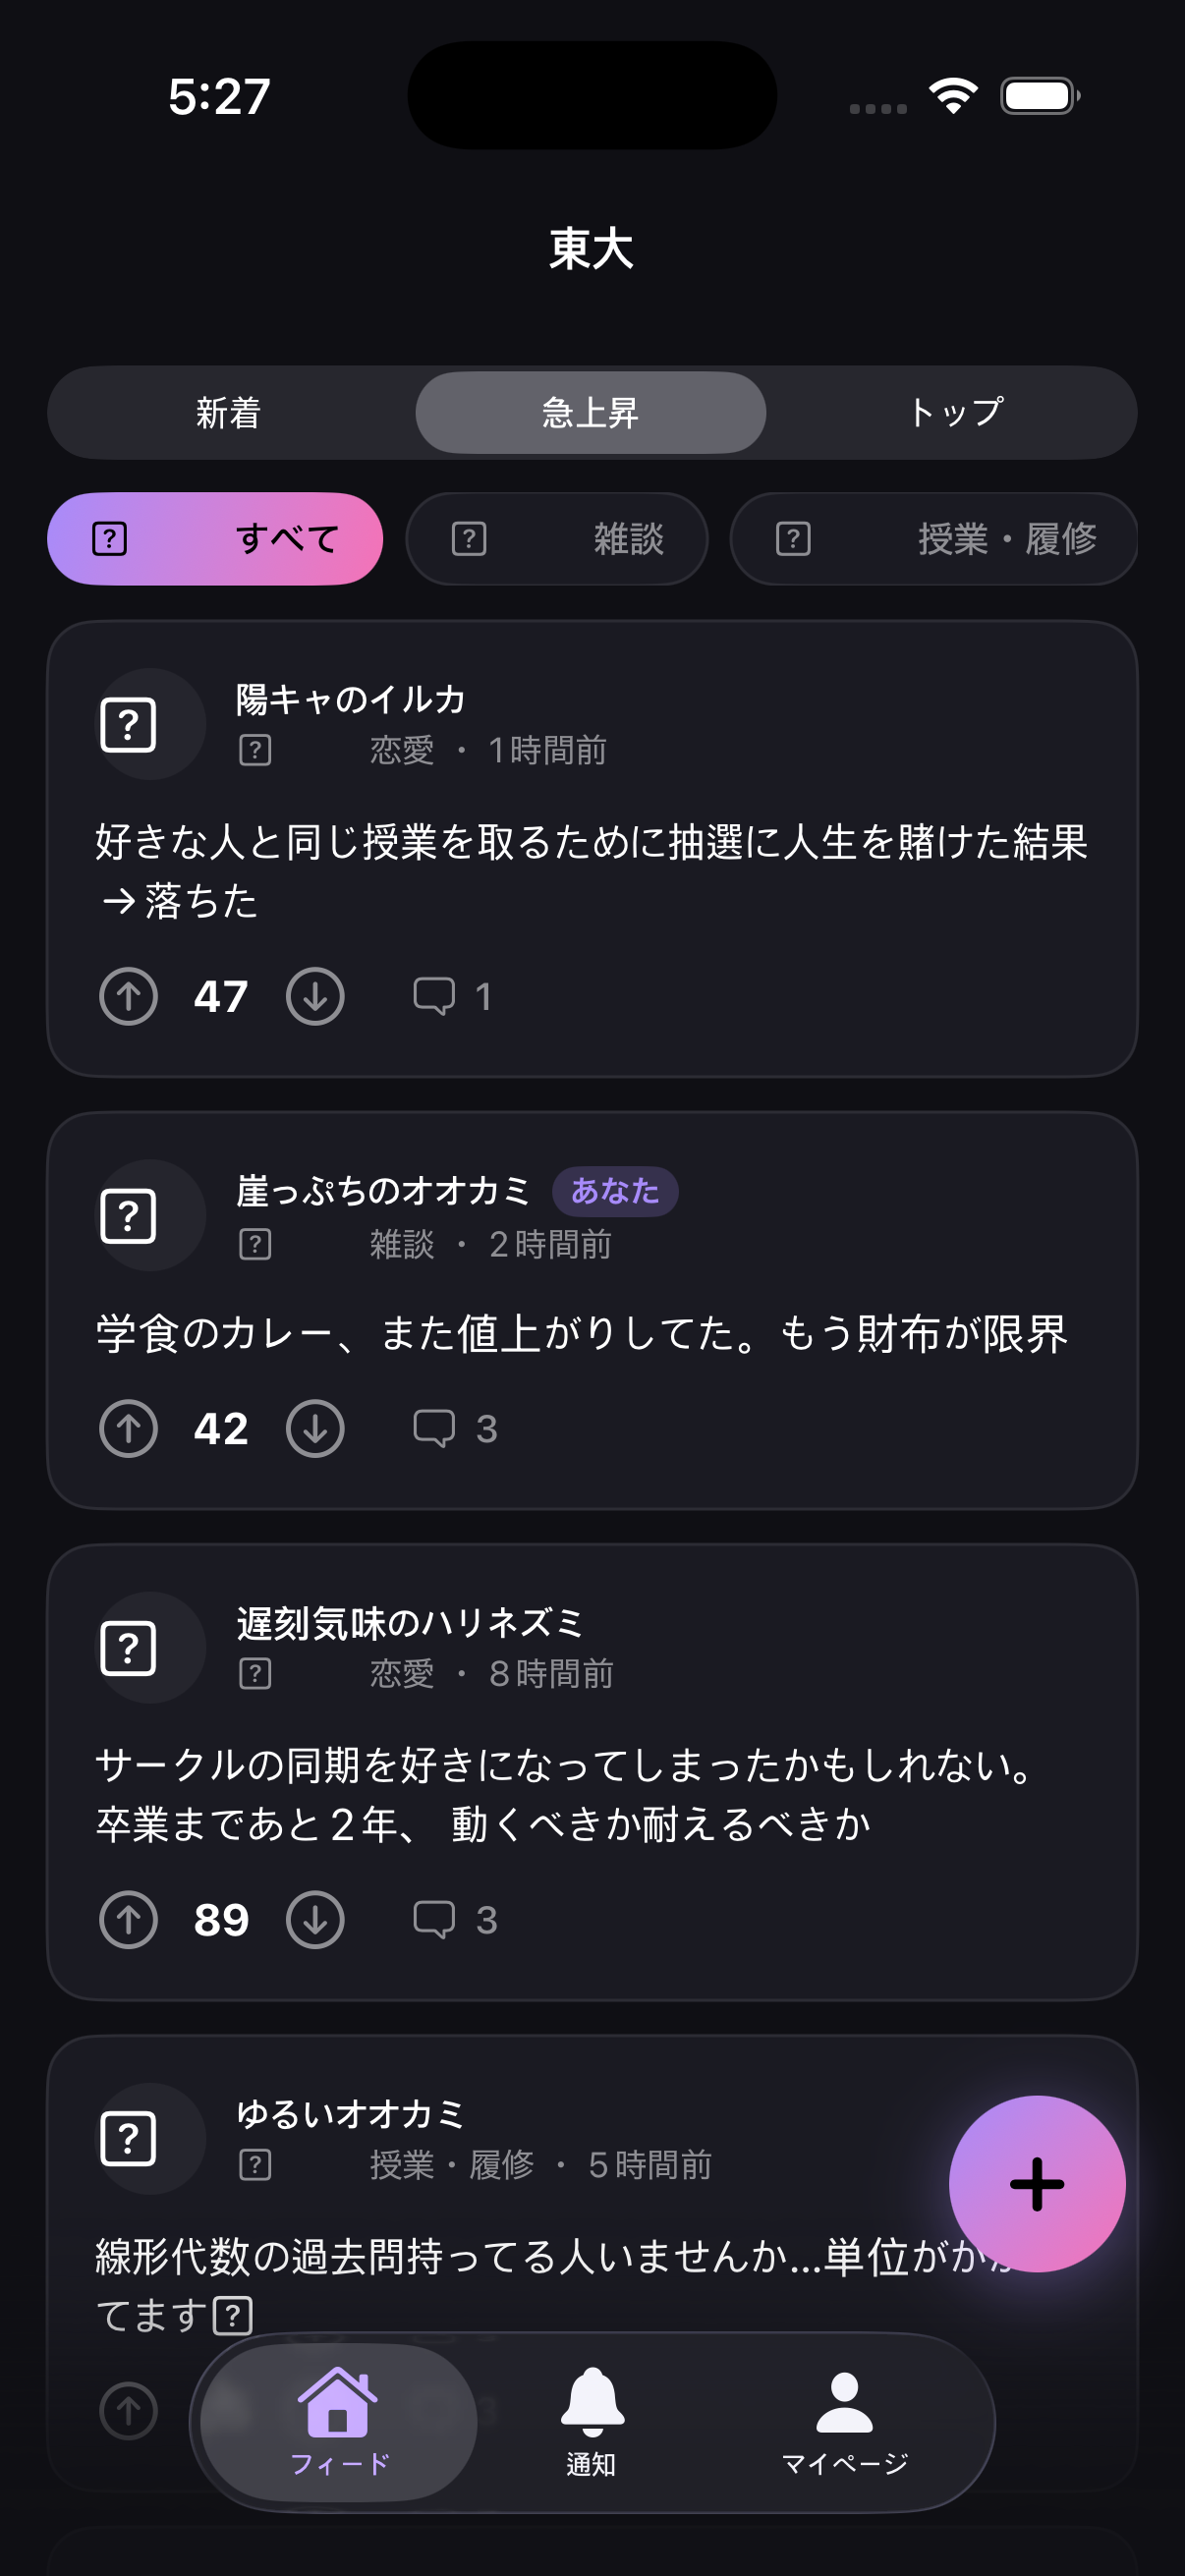
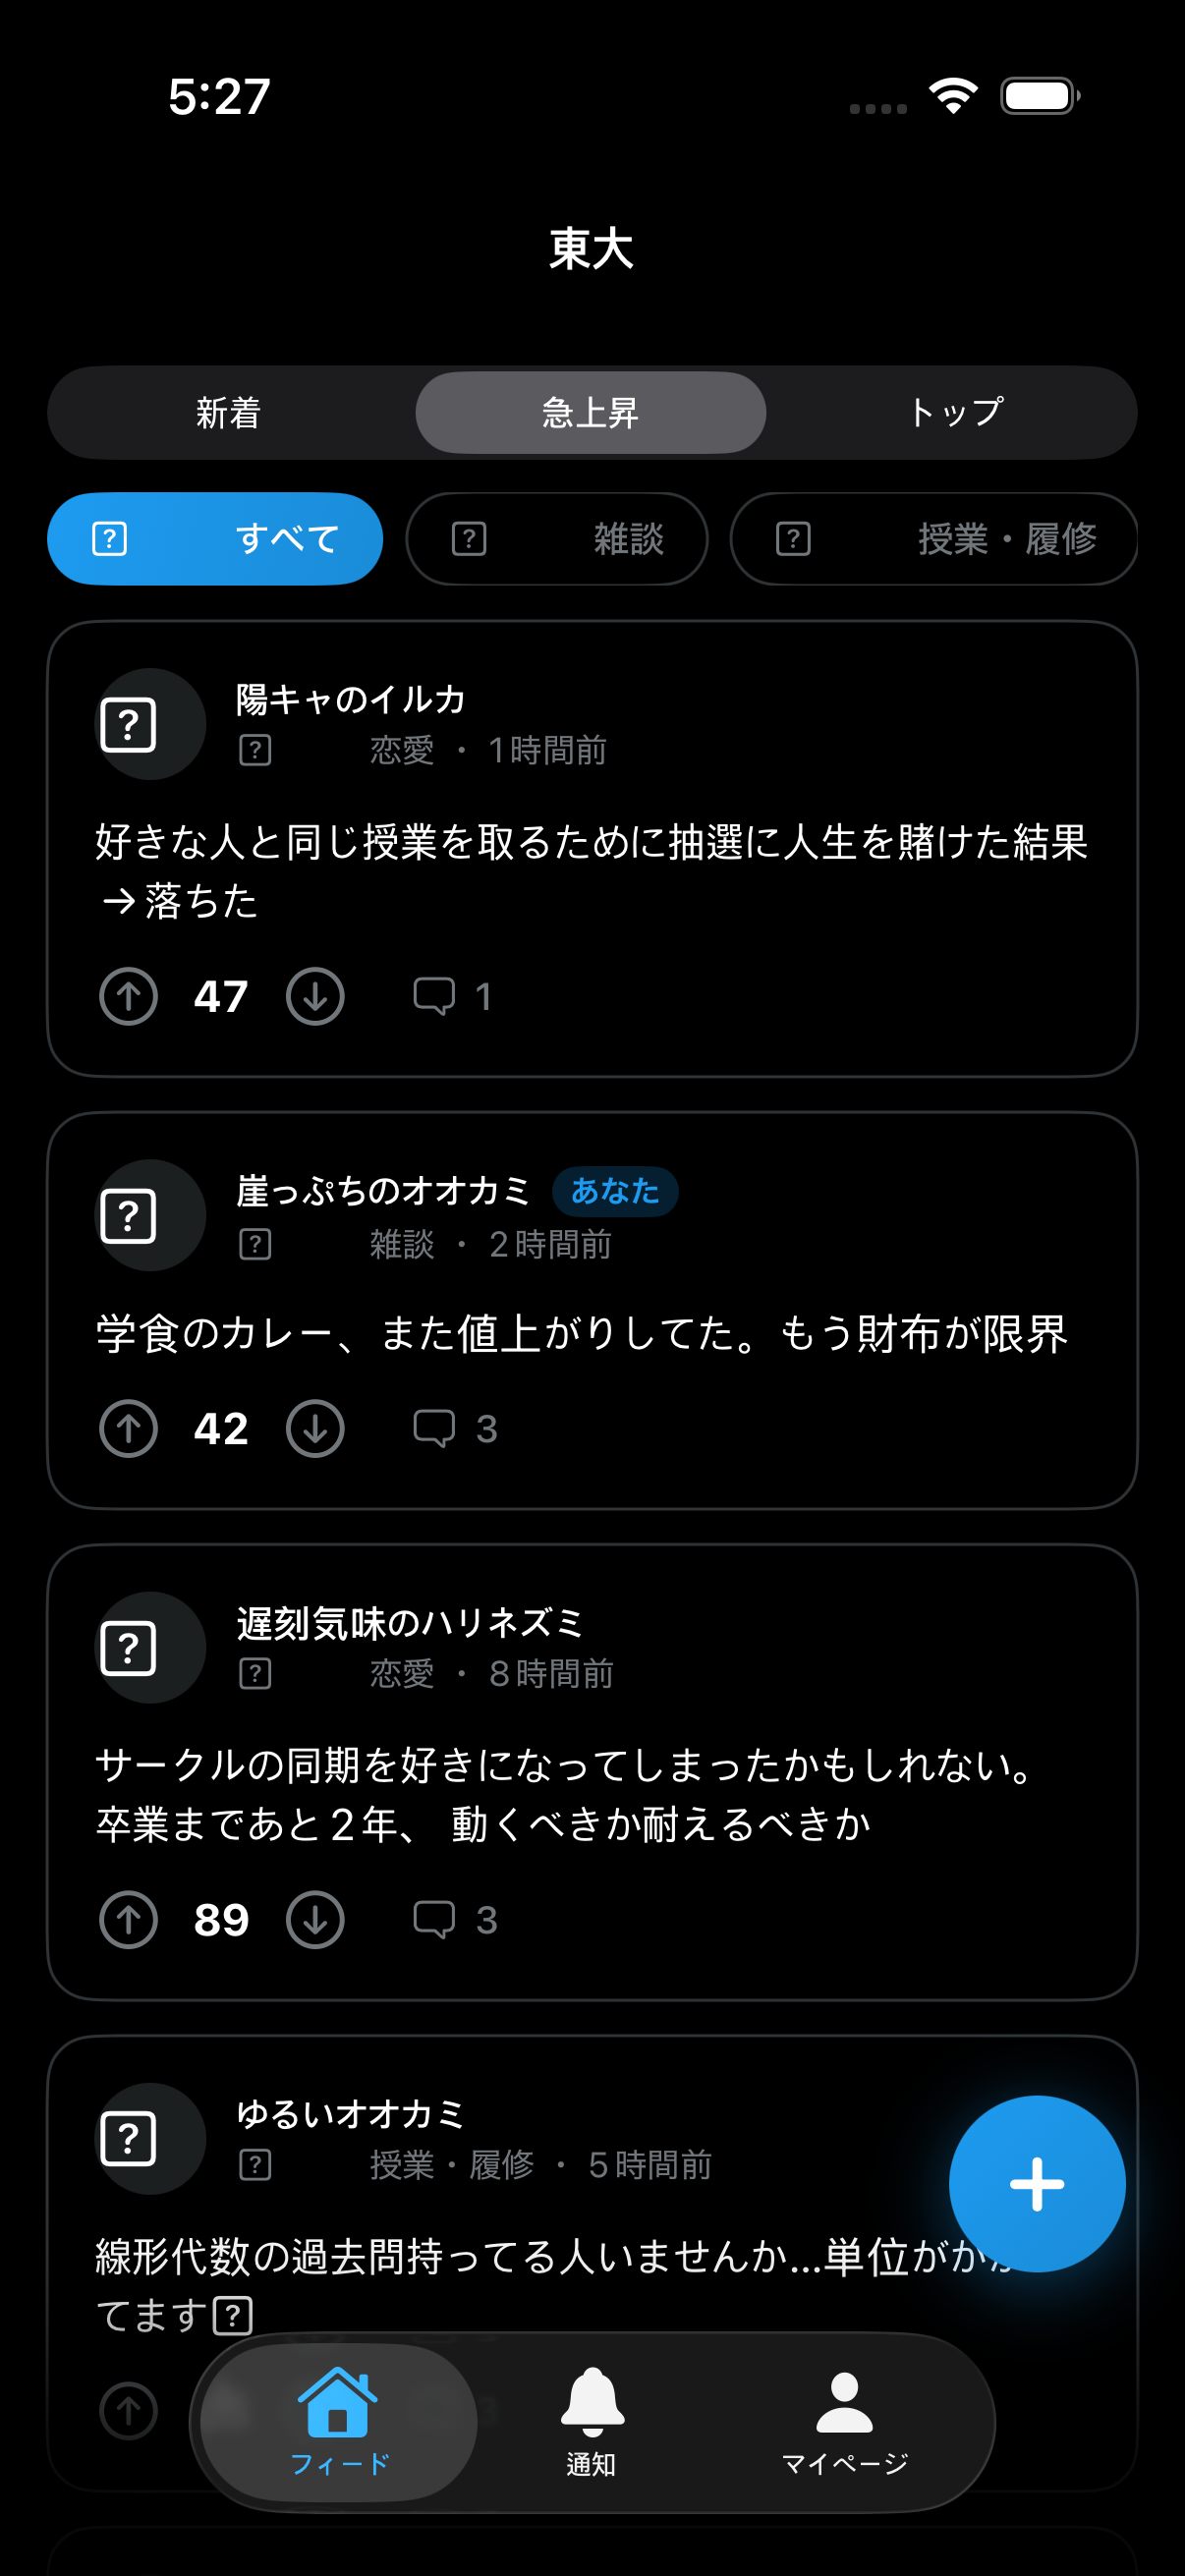
Restyle to X (Twitter) Lights-out palette
Pure black background with #2F3336 hairline borders, X blue #1D9BF0
for all actions (white-on-blue buttons), #F91880 for the OP badge,
#F4212E for errors/downvotes. Applied across the iOS theme, accent
color asset, landing page, and admin dashboard. Feed screenshot updated.

Claude-Session: https://claude.ai/code/session_01HnUVwc3NoJuQ6pxUm18dsP

diff --git a/backend/src/app/admin/page.tsx b/backend/src/app/admin/page.tsx
@@ -14,8 +14,8 @@ type Report = {
 };
 
 const box: React.CSSProperties = {
-  background: "#1a1a22",
-  border: "1px solid #2c2c34",
+  background: "#000000",
+  border: "1px solid #2f3336",
   borderRadius: 14,
   padding: 20,
 };
@@ -24,17 +24,17 @@ const input: React.CSSProperties = {
   boxSizing: "border-box",
   padding: "12px 14px",
   borderRadius: 10,
-  border: "1px solid #2c2c34",
-  background: "#0f0f14",
-  color: "#f2f2f7",
+  border: "1px solid #2f3336",
+  background: "#000000",
+  color: "#e7e9ea",
   fontSize: 15,
 };
 const button: React.CSSProperties = {
   padding: "10px 18px",
   borderRadius: 10,
   border: "none",
-  background: "linear-gradient(135deg, #a78bfa, #f472b6)",
-  color: "#0f0f14",
+  background: "#1d9bf0",
+  color: "#ffffff",
   fontWeight: 700,
   cursor: "pointer",
   fontSize: 14,
@@ -157,16 +157,16 @@ export default function AdminPage() {
               </button>
             </>
           )}
-          {message && <p style={{ color: "#f472b6", margin: 0 }}>{message}</p>}
+          {message && <p style={{ color: "#f4212e", margin: 0 }}>{message}</p>}
         </div>
       )}
 
       {step === "in" && (
         <div style={{ display: "flex", flexDirection: "column", gap: 12 }}>
           <div style={{ display: "flex", justifyContent: "space-between", alignItems: "center" }}>
-            <span style={{ color: "#8e8e93" }}>未対応の通報: {reports.length}件</span>
+            <span style={{ color: "#71767b" }}>未対応の通報: {reports.length}件</span>
             <button
-              style={{ ...button, background: "#2c2c34", color: "#f2f2f7" }}
+              style={{ ...button, background: "#2f3336", color: "#e7e9ea" }}
               onClick={() => {
                 localStorage.removeItem("jpf_admin_token");
                 setToken(null);
@@ -176,29 +176,29 @@ export default function AdminPage() {
               ログアウト
             </button>
           </div>
-          {message && <p style={{ color: "#f472b6" }}>{message}</p>}
+          {message && <p style={{ color: "#f4212e" }}>{message}</p>}
           {reports.length === 0 && <div style={box}>✨ 未対応の通報はありません</div>}
           {reports.map((r) => (
             <div key={r.id} style={box}>
-              <div style={{ color: "#8e8e93", fontSize: 13, marginBottom: 8 }}>
+              <div style={{ color: "#71767b", fontSize: 13, marginBottom: 8 }}>
                 {r.school} ・ {r.targetType === "post" ? "投稿" : "コメント"} ・{" "}
                 {new Date(r.createdAt).toLocaleString("ja-JP")}
                 {r.targetRemoved && " ・ ⚠️ 自動非表示中"}
               </div>
               <div style={{ marginBottom: 8, whiteSpace: "pre-wrap" }}>{r.targetText}</div>
-              <div style={{ color: "#f472b6", fontSize: 14, marginBottom: 12 }}>通報理由: {r.reason}</div>
+              <div style={{ color: "#f4212e", fontSize: 14, marginBottom: 12 }}>通報理由: {r.reason}</div>
               <div style={{ display: "flex", gap: 8 }}>
                 <button style={button} onClick={() => act(r.id, "remove")}>
                   削除する
                 </button>
                 <button
-                  style={{ ...button, background: "#2c2c34", color: "#f2f2f7" }}
+                  style={{ ...button, background: "#2f3336", color: "#e7e9ea" }}
                   onClick={() => act(r.id, "dismiss")}
                 >
                   問題なし
                 </button>
                 <button
-                  style={{ ...button, background: "#e11d48", color: "#fff" }}
+                  style={{ ...button, background: "#f4212e", color: "#fff" }}
                   onClick={() => act(r.id, "ban")}
                 >
                   投稿者をBAN

diff --git a/ios/JPF/Theme.swift b/ios/JPF/Theme.swift
@@ -1,17 +1,24 @@
 import SwiftUI
 
+// X (Twitter) "Lights out" palette.
 enum Theme {
-    static let background = Color(red: 0.059, green: 0.059, blue: 0.078) // #0F0F14
-    static let card = Color(red: 0.102, green: 0.102, blue: 0.133) // #1A1A22
-    static let cardBorder = Color(red: 0.173, green: 0.173, blue: 0.204) // #2C2C34
-    static let accent = Color(red: 0.655, green: 0.545, blue: 0.980) // #A78BFA
-    static let accentPink = Color(red: 0.957, green: 0.447, blue: 0.714) // #F472B6
-    static let secondaryText = Color(red: 0.557, green: 0.557, blue: 0.576) // #8E8E93
-    static let upvote = Color(red: 0.957, green: 0.447, blue: 0.714)
-    static let downvote = Color(red: 0.42, green: 0.55, blue: 0.98)
+    static let background = Color.black                                      // #000000
+    static let card = Color.black                                            // flat black — hairline borders do the separation
+    static let cardBorder = Color(red: 0.184, green: 0.200, blue: 0.212)     // #2F3336
+    static let accent = Color(red: 0.114, green: 0.608, blue: 0.941)         // #1D9BF0 X blue
+    static let accentPink = Color(red: 0.976, green: 0.094, blue: 0.502)     // #F91880 like-pink
+    static let secondaryText = Color(red: 0.443, green: 0.463, blue: 0.482)  // #71767B
+    static let error = Color(red: 0.957, green: 0.129, blue: 0.180)          // #F4212E
+    static let upvote = Color(red: 0.114, green: 0.608, blue: 0.941)         // X blue
+    static let downvote = Color(red: 0.957, green: 0.129, blue: 0.180)       // #F4212E
 
+    // Kept as a gradient type so call sites don't change; #1D9BF0 → #1A8CD8 reads flat like X buttons.
     static var gradient: LinearGradient {
-        LinearGradient(colors: [accent, accentPink], startPoint: .topLeading, endPoint: .bottomTrailing)
+        LinearGradient(
+            colors: [accent, Color(red: 0.102, green: 0.549, blue: 0.847)],
+            startPoint: .topLeading,
+            endPoint: .bottomTrailing
+        )
     }
 }
 

diff --git a/backend/src/app/page.tsx b/backend/src/app/page.tsx
@@ -13,18 +13,8 @@ export default function Home() {
       }}
     >
       <div style={{ fontSize: 64 }}>🎓</div>
-      <h1
-        style={{
-          margin: 0,
-          fontSize: 40,
-          background: "linear-gradient(135deg, #a78bfa, #f472b6)",
-          WebkitBackgroundClip: "text",
-          WebkitTextFillColor: "transparent",
-        }}
-      >
-        JPF
-      </h1>
-      <p style={{ margin: 0, color: "#8e8e93", maxWidth: 420, lineHeight: 1.7 }}>
+      <h1 style={{ margin: 0, fontSize: 40, color: "#1d9bf0" }}>JPF</h1>
+      <p style={{ margin: 0, color: "#71767b", maxWidth: 420, lineHeight: 1.7 }}>
         日本の大学生のための匿名キャンパスSNS。
         <br />
         このサーバーは iOS アプリ用 API（<code>/api/v1</code>）を提供しています。
@@ -32,9 +22,9 @@ export default function Home() {
       <a
         href="/admin"
         style={{
-          color: "#a78bfa",
+          color: "#1d9bf0",
           textDecoration: "none",
-          border: "1px solid #2c2c34",
+          border: "1px solid #2f3336",
           padding: "10px 24px",
           borderRadius: 12,
         }}

diff --git a/ios/JPF/AuthFlowView.swift b/ios/JPF/AuthFlowView.swift
@@ -24,7 +24,7 @@ struct AuthFlowView: View {
                 if let errorMessage {
                     Text(errorMessage)
                         .font(.footnote)
-                        .foregroundStyle(Theme.accentPink)
+                        .foregroundStyle(Theme.error)
                         .multilineTextAlignment(.center)
                 }
                 Spacer()
@@ -62,7 +62,7 @@ struct AuthFlowView: View {
                     .frame(maxWidth: .infinity)
                     .padding(.vertical, 16)
                     .background(Theme.gradient)
-                    .foregroundStyle(.black)
+                    .foregroundStyle(.white)
                     .clipShape(RoundedRectangle(cornerRadius: 16, style: .continuous))
             }
 
@@ -123,7 +123,7 @@ struct AuthFlowView: View {
         } label: {
             Group {
                 if isLoading {
-                    ProgressView().tint(.black)
+                    ProgressView().tint(.white)
                 } else {
                     Text(title).font(.headline)
                 }
@@ -131,7 +131,7 @@ struct AuthFlowView: View {
             .frame(maxWidth: .infinity)
             .padding(.vertical, 16)
             .background(Theme.gradient.opacity(disabled ? 0.35 : 1))
-            .foregroundStyle(.black)
+            .foregroundStyle(.white)
             .clipShape(RoundedRectangle(cornerRadius: 16, style: .continuous))
         }
         .disabled(disabled || isLoading)

diff --git a/ios/JPF/ComposeView.swift b/ios/JPF/ComposeView.swift
@@ -56,7 +56,7 @@ struct ComposeView: View {
                         if let errorMessage {
                             Text("⚠️ \(errorMessage)")
                                 .font(.footnote)
-                                .foregroundStyle(Theme.accentPink)
+                                .foregroundStyle(Theme.error)
                         }
                     }
                     .padding(16)
@@ -81,7 +81,7 @@ struct ComposeView: View {
                                 .padding(.horizontal, 16)
                                 .padding(.vertical, 7)
                                 .background(Theme.gradient.opacity(canPost ? 1 : 0.35))
-                                .foregroundStyle(.black)
+                                .foregroundStyle(.white)
                                 .clipShape(Capsule())
                         }
                     }
@@ -121,7 +121,7 @@ struct ComposeView: View {
                             .padding(.horizontal, 14)
                             .padding(.vertical, 8)
                             .background(isSelected ? AnyShapeStyle(Theme.gradient) : AnyShapeStyle(Theme.card))
-                            .foregroundStyle(isSelected ? .black : Theme.secondaryText)
+                            .foregroundStyle(isSelected ? .white : Theme.secondaryText)
                             .clipShape(Capsule())
                             .overlay(Capsule().stroke(isSelected ? .clear : Theme.cardBorder, lineWidth: 1))
                     }
@@ -223,7 +223,7 @@ struct ComposeView: View {
 
             Text("\(text.count)/1000")
                 .font(.caption)
-                .foregroundStyle(text.count > 1000 ? Theme.accentPink : Theme.secondaryText)
+                .foregroundStyle(text.count > 1000 ? Theme.error : Theme.secondaryText)
         }
     }
 

diff --git a/backend/src/app/layout.tsx b/backend/src/app/layout.tsx
@@ -14,8 +14,8 @@ export default function RootLayout({ children }: { children: ReactNode }) {
           margin: 0,
           fontFamily:
             '-apple-system, BlinkMacSystemFont, "Hiragino Sans", "Noto Sans JP", sans-serif',
-          background: "#0f0f14",
-          color: "#f2f2f7",
+          background: "#000000",
+          color: "#e7e9ea",
           minHeight: "100vh",
         }}
       >

diff --git a/ios/JPF/FeedView.swift b/ios/JPF/FeedView.swift
@@ -196,7 +196,7 @@ struct FeedView: View {
                 .padding(.horizontal, 14)
                 .padding(.vertical, 8)
                 .background(isSelected ? AnyShapeStyle(Theme.gradient) : AnyShapeStyle(Theme.card))
-                .foregroundStyle(isSelected ? .black : Theme.secondaryText)
+                .foregroundStyle(isSelected ? .white : Theme.secondaryText)
                 .clipShape(Capsule())
                 .overlay(Capsule().stroke(isSelected ? .clear : Theme.cardBorder, lineWidth: 1))
         }
@@ -209,7 +209,7 @@ struct FeedView: View {
         } label: {
             Image(systemName: "plus")
                 .font(.title2.weight(.bold))
-                .foregroundStyle(.black)
+                .foregroundStyle(.white)
                 .frame(width: 60, height: 60)
                 .background(Theme.gradient)
                 .clipShape(Circle())

diff --git a/ios/JPF/PostDetailView.swift b/ios/JPF/PostDetailView.swift
@@ -186,14 +186,14 @@ struct PostDetailView: View {
                     Task { await sendComment() }
                 } label: {
                     if isSending {
-                        ProgressView().tint(.black)
+                        ProgressView().tint(.white)
                             .frame(width: 38, height: 38)
                             .background(Theme.gradient)
                             .clipShape(Circle())
                     } else {
                         Image(systemName: "arrow.up")
                             .font(.body.weight(.bold))
-                            .foregroundStyle(.black)
+                            .foregroundStyle(.white)
                             .frame(width: 38, height: 38)
                             .background(Theme.gradient.opacity(canSend ? 1 : 0.35))
                             .clipShape(Circle())